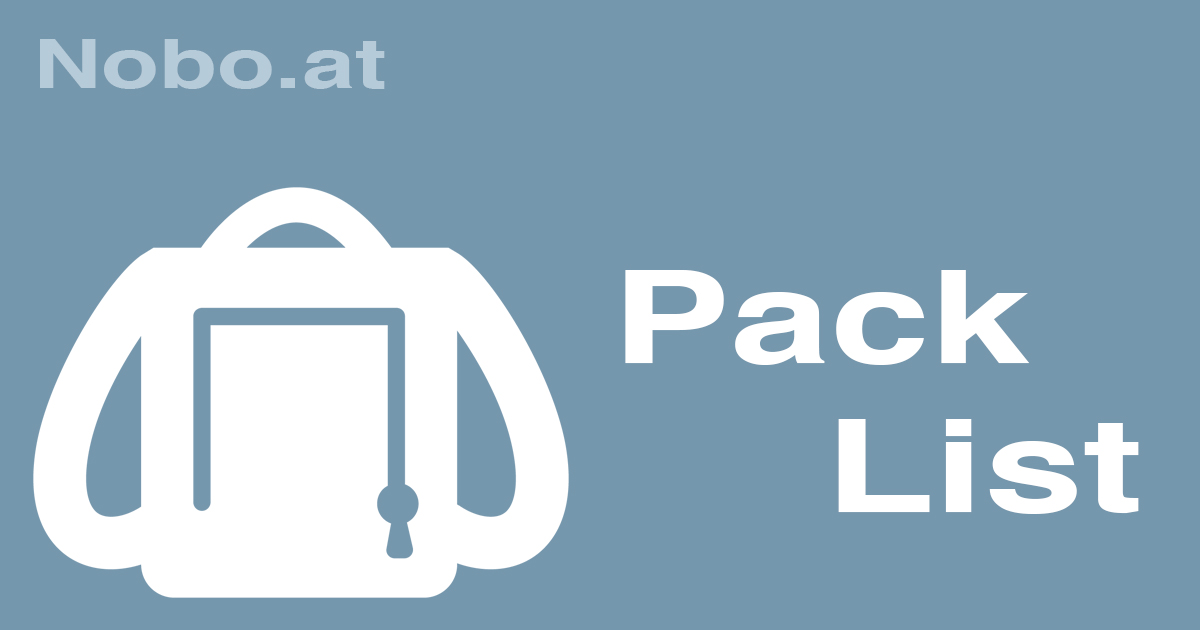
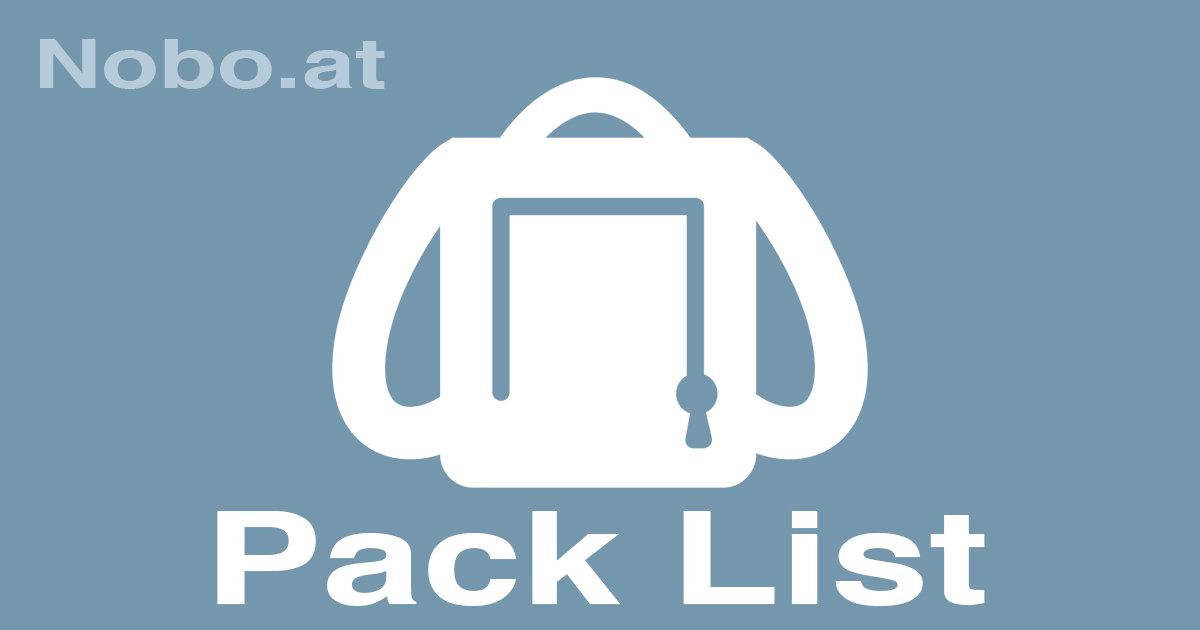
created new facebook share image

diff --git a/resources/views/layouts/app.blade.php b/resources/views/layouts/app.blade.php
@@ -18,8 +18,8 @@
     <meta property="og:type" content="website" />
     <meta property="og:title" content="{{ config('app.name') }}" />
     <meta property="og:image" content="{{config('app.url')}}/images/packs/facebook-share.jpg" />
-    <meta property="og:image:width" content="1200px" />
-    <meta property="og:image:height" content="630px" />
+    <meta property="og:image:width" content="1200" />
+    <meta property="og:image:height" content="630" />
 </head>
 <body>
     <div id="app">
